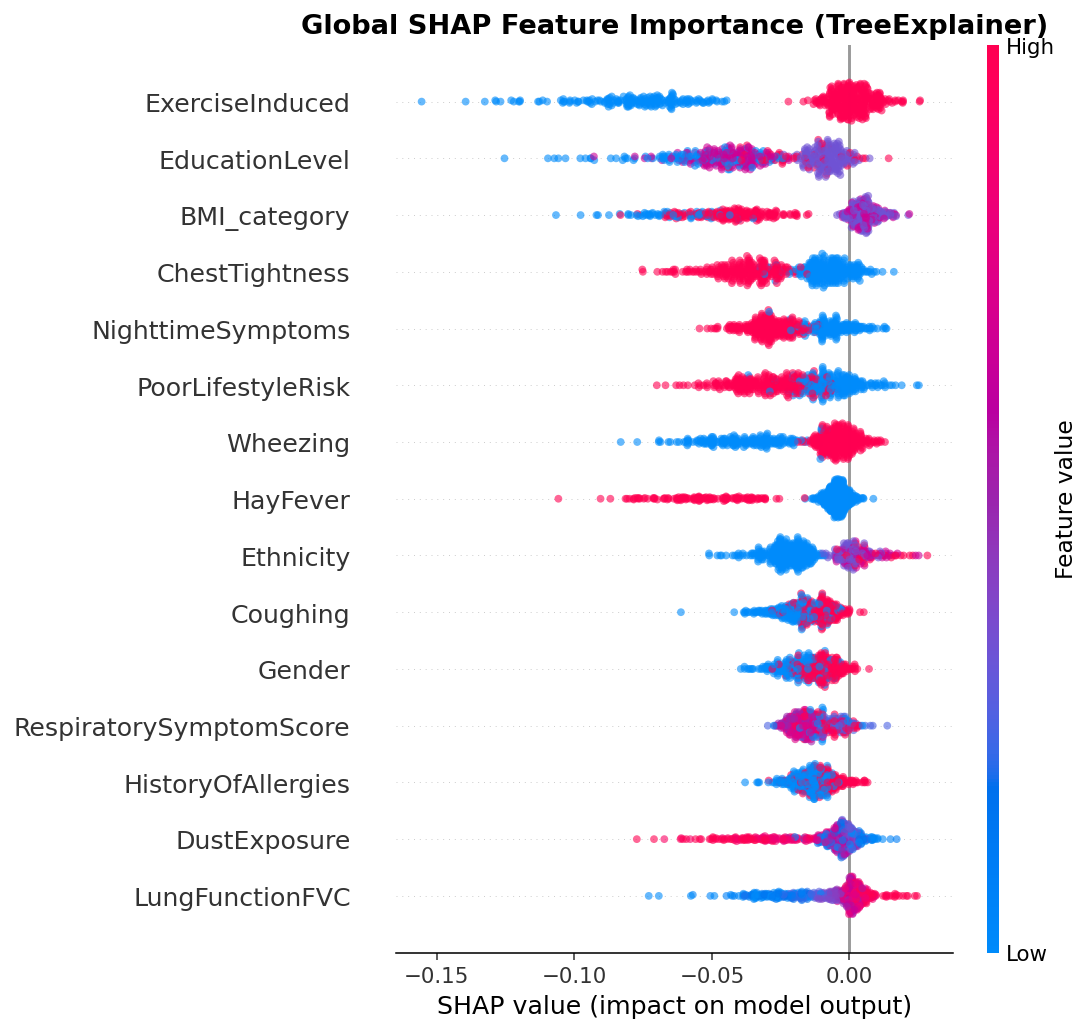
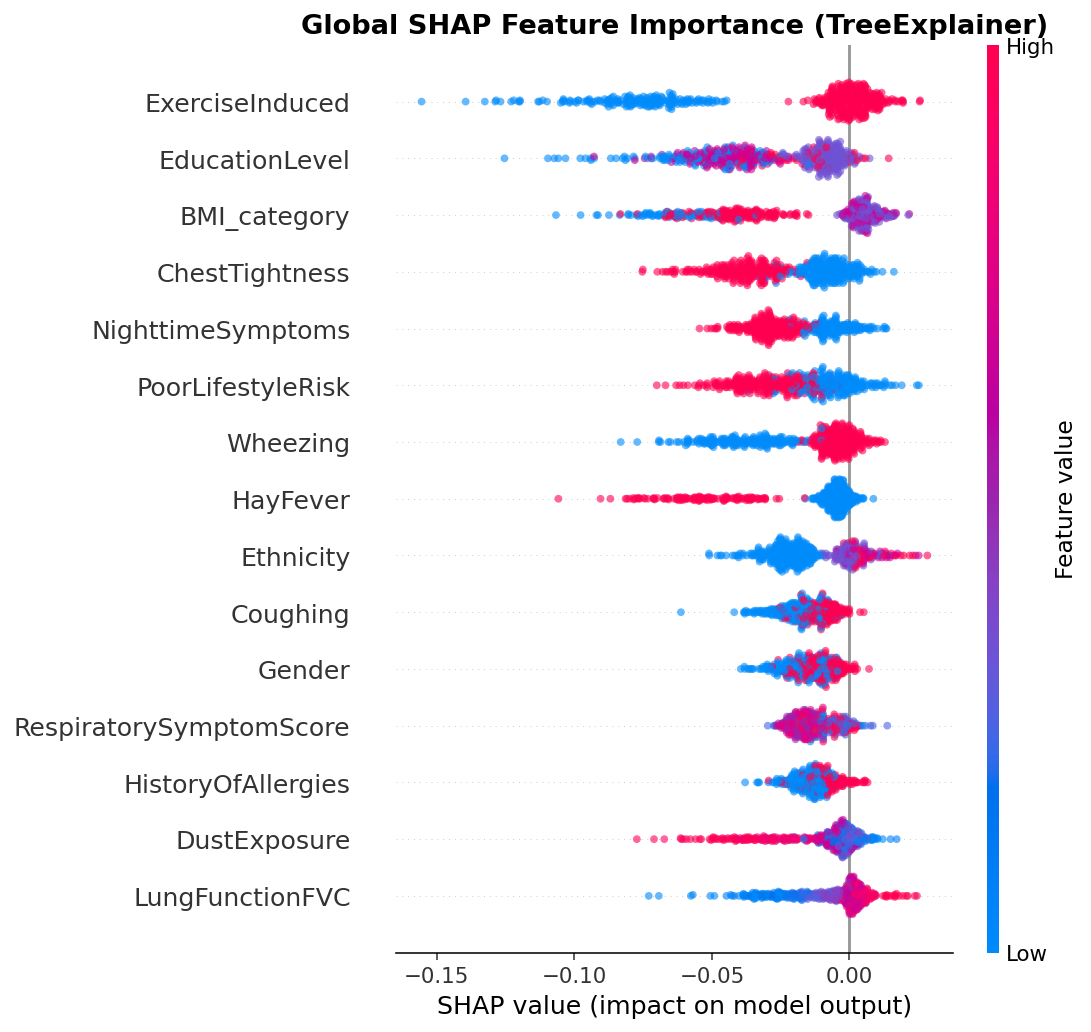
Add model comparison images

diff --git a/models/comprehensive_evaluation.py b/models/comprehensive_evaluation.py
@@ -156,6 +156,49 @@ results["model"] = {
 }
 
 # ──────────────────────────────────────────────
+# 4b. Model comparison image
+# ──────────────────────────────────────────────
+candidate_selection = metadata.get("candidate_selection", [])
+if candidate_selection:
+    candidate_names = [str(item.get("name", "Unknown")) for item in candidate_selection]
+    candidate_roc = [float(item.get("roc_auc", 0)) * 100 for item in candidate_selection]
+    candidate_pr = [float(item.get("average_precision", 0)) * 100 for item in candidate_selection]
+    fig, axes = plt.subplots(1, 2, figsize=(12, 5.5))
+    positions = np.arange(len(candidate_names))
+    width = 0.36
+    axes[0].bar(positions - width / 2, candidate_roc, width, label="ROC-AUC", color="#2563eb")
+    axes[0].bar(positions + width / 2, candidate_pr, width, label="PR-AUC", color="#059669")
+    axes[0].axhline(y=50, color="#64748b", linestyle="--", linewidth=1.2, label="Random ROC-AUC")
+    axes[0].axhline(y=float(y_trainval.mean()) * 100, color="#d97706", linestyle=":", linewidth=1.5, label="PR-AUC baseline")
+    axes[0].set_xticks(positions)
+    axes[0].set_xticklabels(candidate_names, rotation=18, ha="right")
+    axes[0].set_ylabel("Score (%)")
+    axes[0].set_title("Validation ranking metrics")
+    axes[0].set_ylim(0, 100)
+    axes[0].legend(fontsize=8)
+    axes[0].grid(axis="y", alpha=0.25)
+
+    accuracy_names = ["Majority baseline", model_name]
+    accuracy_values = [majority_acc * 100, acc * 100]
+    bars = axes[1].bar(accuracy_names, accuracy_values, color=["#94a3b8", "#0f766e"], width=0.55)
+    axes[1].set_ylabel("Accuracy (%)")
+    axes[1].set_title("Hold-out accuracy context")
+    axes[1].set_ylim(0, 100)
+    axes[1].grid(axis="y", alpha=0.25)
+    for bar, value in zip(bars, accuracy_values):
+        axes[1].text(bar.get_x() + bar.get_width() / 2, value + 2, f"{value:.2f}%", ha="center", fontweight="bold")
+
+    fig.suptitle("Model comparison", fontsize=15, fontweight="bold")
+    fig.tight_layout()
+    comparison_path = OUTPUT_DIR / "evaluation_model_comparison.png"
+    fig.savefig(comparison_path, dpi=140, bbox_inches="tight")
+    comparison_jpg_path = OUTPUT_DIR / "evaluation_model_comparison.jpg"
+    fig.savefig(comparison_jpg_path, dpi=140, bbox_inches="tight", format="jpg")
+    plt.close(fig)
+    print(f"  Saved model comparison → {comparison_jpg_path.name}")
+    results["model_comparison_image"] = comparison_jpg_path.name
+
+# ──────────────────────────────────────────────
 # 5. ROC-AUC + PR-AUC
 # ──────────────────────────────────────────────
 print("\n" + "─" * 70)

diff --git a/README.md b/README.md
@@ -104,6 +104,8 @@ The current workflow keeps a final 20% test split separate from validation. The 
 
 ![Current hold-out confusion matrix](models/evaluation_confusion_matrix.png)
 
+![Model comparison](models/evaluation_model_comparison.jpg)
+
 ## Explainable AI and AQI
 
 For an entered profile, the app tries `shap.TreeExplainer` and then `shap.LinearExplainer` to display feature contributions. These values explain the saved model's behaviour for that input; they do not prove that a feature causes asthma.
